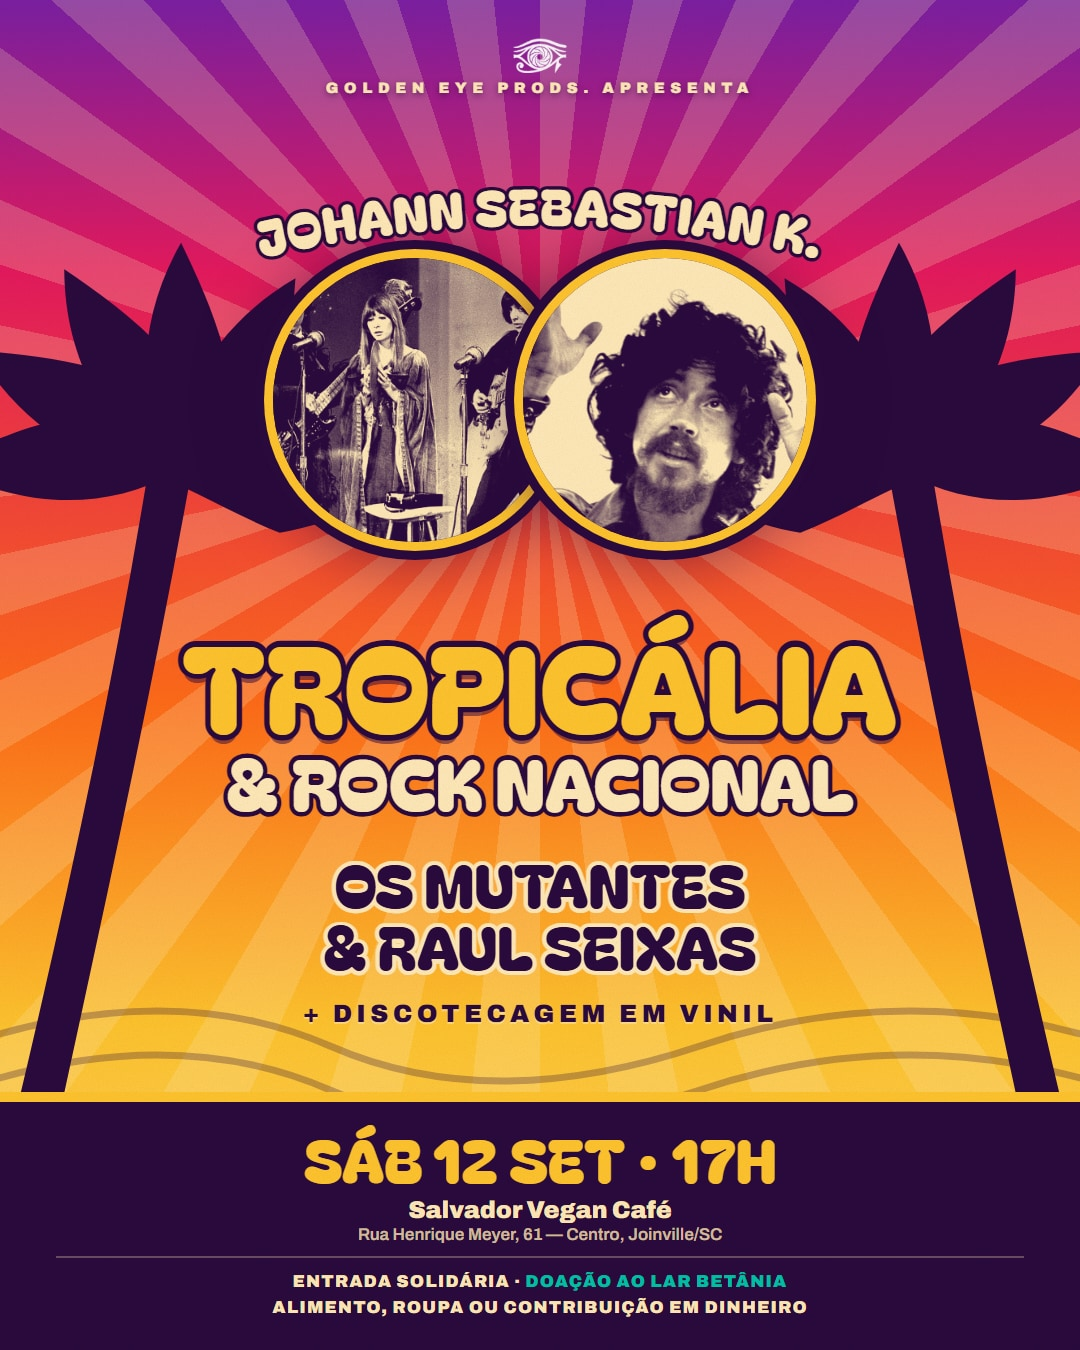
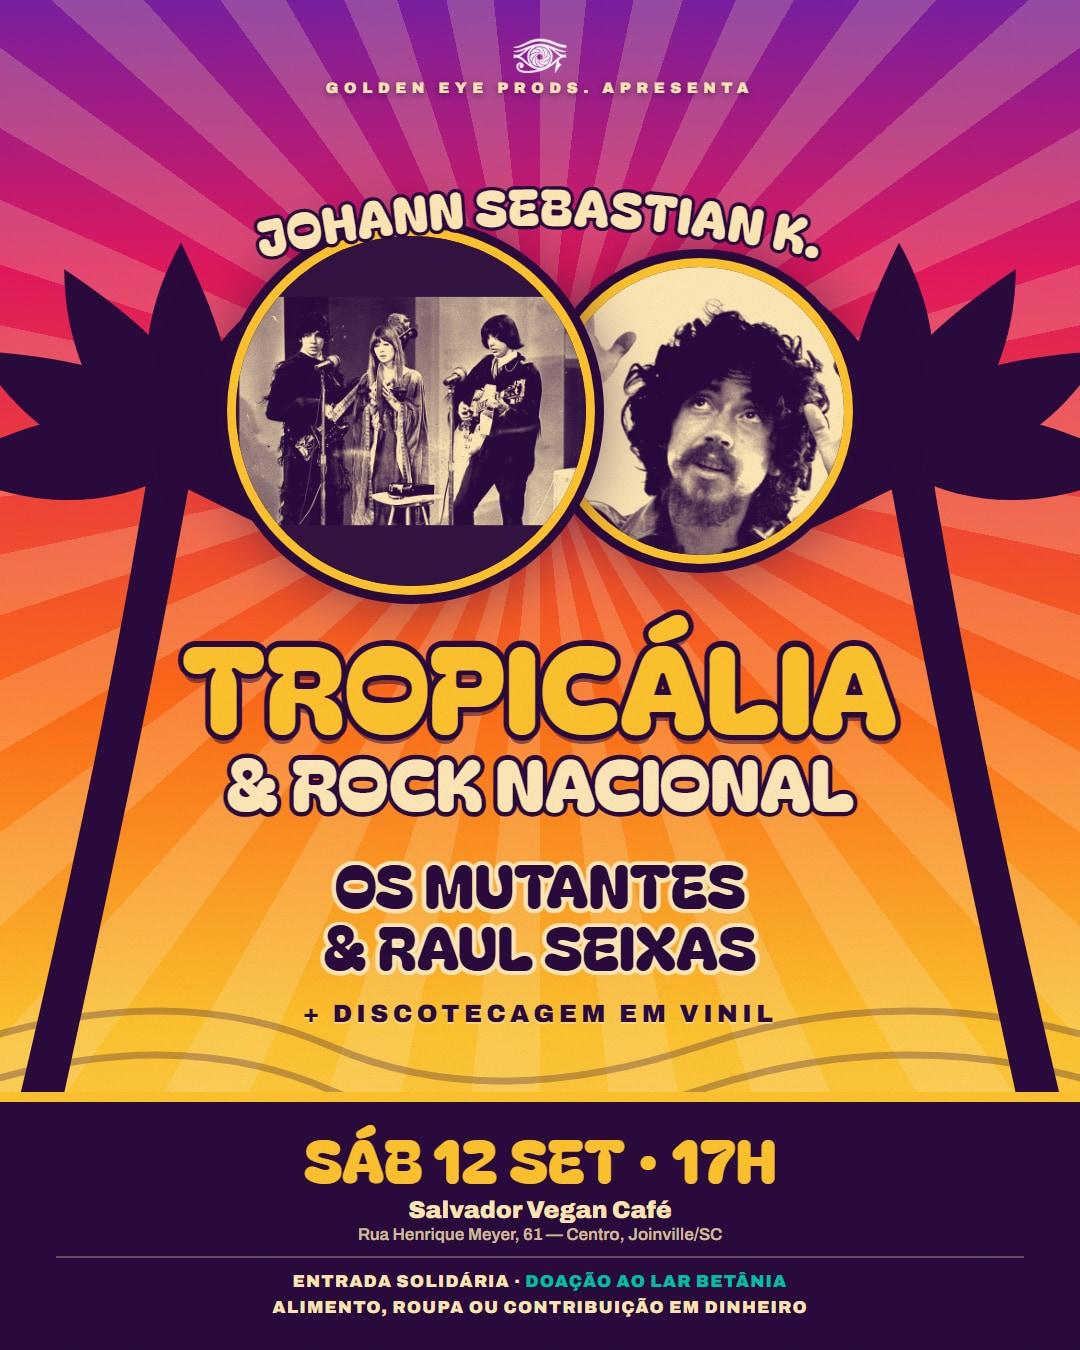
Amplia o medalhão dos Mutantes e mostra os três inteiros
O recorte quadrado descartava quem estava nas pontas: a foto é 3:2 e, ao
cortar um quadrado do meio, sobrava a Rita e pedaços dos outros dois.

O script de preparo ganhou dois modos de enquadrar. "cortar" recorta um
quadrado do centro e continua servindo para o retrato do Raul. "caber"
encaixa a foto inteira e completa as sobras com a cor de fundo — é o que
salva foto de grupo. Dentro do círculo as faixas de sobra caem fora da
área visível, então o efeito é só o de enxergar todo mundo.

O medalhão dos Mutantes também cresceu em relação ao do Raul: três pessoas
precisam de mais espaço que um rosto, e a diferença de tamanho ainda ajuda
a compor, evitando dois círculos idênticos lado a lado.

Changed region(s): [[0.1833, 0.1556, 0.7944, 0.4667]]

diff --git a/cartazes/cartaz.html b/cartazes/cartaz.html
@@ -84,12 +84,12 @@
      lado, levemente sobrepostos, dão a cada foto um recorte decente e
      ainda leem como uma peça só. */
   .miolo {
-    position: absolute; top: 258px; left: 50%; transform: translateX(-50%);
+    position: absolute; top: 236px; left: 50%; transform: translateX(-50%);
     z-index: 12; display: flex; align-items: center;
   }
   .medalhao {
     position: relative;
-    width: 284px; height: 284px; border-radius: 50%;
+    width: 288px; height: 288px; border-radius: 50%;
     overflow: hidden; background: var(--escuro);
     box-shadow:
       0 0 0 9px var(--amarelo),
@@ -97,8 +97,11 @@
       0 0 60px 14px rgba(42,10,61,.55);
   }
   .medalhao img { width: 100%; height: 100%; object-fit: cover; display: block; }
+  /* Os Mutantes são três: o medalhão deles precisa de mais espaço que o
+     retrato do Raul, senão os das pontas ficam espremidos. */
+  .medalhao.grupo { width: 350px; height: 350px; z-index: 3; }
   /* sobreposição: o da direita entra por cima e encosta no da esquerda */
-  .medalhao + .medalhao { margin-left: -34px; z-index: 2; }
+  .medalhao + .medalhao { margin-left: -30px; z-index: 2; }
 
   /* --- PALMEIRAS -------------------------------------------------------- */
   /* Enraizadas nos cantos de baixo: o tronco nasce fora do quadro e sobe
@@ -202,7 +205,7 @@
   </svg>
 
   <div class="miolo">
-    <div class="medalhao"><img src="mutantes.png" alt="Os Mutantes"></div>
+    <div class="medalhao grupo"><img src="mutantes.png" alt="Os Mutantes"></div>
     <div class="medalhao"><img src="raul.png" alt="Raul Seixas"></div>
   </div>
     </div>

diff --git a/cartazes/impresso-a4.html b/cartazes/impresso-a4.html
@@ -84,12 +84,12 @@
      lado, levemente sobrepostos, dão a cada foto um recorte decente e
      ainda leem como uma peça só. */
   .miolo {
-    position: absolute; top: 336px; left: 50%; transform: translateX(-50%);
+    position: absolute; top: 316px; left: 50%; transform: translateX(-50%);
     z-index: 12; display: flex; align-items: center;
   }
   .medalhao {
     position: relative;
-    width: 330px; height: 330px; border-radius: 50%;
+    width: 326px; height: 326px; border-radius: 50%;
     overflow: hidden; background: var(--escuro);
     box-shadow:
       0 0 0 9px var(--amarelo),
@@ -97,8 +97,11 @@
       0 0 60px 14px rgba(42,10,61,.55);
   }
   .medalhao img { width: 100%; height: 100%; object-fit: cover; display: block; }
+  /* Os Mutantes são três: o medalhão deles precisa de mais espaço que o
+     retrato do Raul, senão os das pontas ficam espremidos. */
+  .medalhao.grupo { width: 400px; height: 400px; z-index: 3; }
   /* sobreposição: o da direita entra por cima e encosta no da esquerda */
-  .medalhao + .medalhao { margin-left: -34px; z-index: 2; }
+  .medalhao + .medalhao { margin-left: -30px; z-index: 2; }
 
   /* --- PALMEIRAS -------------------------------------------------------- */
   /* Enraizadas nos cantos de baixo: o tronco nasce fora do quadro e sobe
@@ -202,7 +205,7 @@
   </svg>
 
   <div class="miolo">
-    <div class="medalhao"><img src="mutantes.png" alt="Os Mutantes"></div>
+    <div class="medalhao grupo"><img src="mutantes.png" alt="Os Mutantes"></div>
     <div class="medalhao"><img src="raul.png" alt="Raul Seixas"></div>
   </div>
     </div>

diff --git a/cartazes/story.html b/cartazes/story.html
@@ -84,12 +84,12 @@
      lado, levemente sobrepostos, dão a cada foto um recorte decente e
      ainda leem como uma peça só. */
   .miolo {
-    position: absolute; top: 396px; left: 50%; transform: translateX(-50%);
+    position: absolute; top: 380px; left: 50%; transform: translateX(-50%);
     z-index: 12; display: flex; align-items: center;
   }
   .medalhao {
     position: relative;
-    width: 316px; height: 316px; border-radius: 50%;
+    width: 312px; height: 312px; border-radius: 50%;
     overflow: hidden; background: var(--escuro);
     box-shadow:
       0 0 0 9px var(--amarelo),
@@ -97,8 +97,11 @@
       0 0 60px 14px rgba(42,10,61,.55);
   }
   .medalhao img { width: 100%; height: 100%; object-fit: cover; display: block; }
+  /* Os Mutantes são três: o medalhão deles precisa de mais espaço que o
+     retrato do Raul, senão os das pontas ficam espremidos. */
+  .medalhao.grupo { width: 382px; height: 382px; z-index: 3; }
   /* sobreposição: o da direita entra por cima e encosta no da esquerda */
-  .medalhao + .medalhao { margin-left: -34px; z-index: 2; }
+  .medalhao + .medalhao { margin-left: -30px; z-index: 2; }
 
   /* --- PALMEIRAS -------------------------------------------------------- */
   /* Enraizadas nos cantos de baixo: o tronco nasce fora do quadro e sobe
@@ -202,7 +205,7 @@
   </svg>
 
   <div class="miolo">
-    <div class="medalhao"><img src="mutantes.png" alt="Os Mutantes"></div>
+    <div class="medalhao grupo"><img src="mutantes.png" alt="Os Mutantes"></div>
     <div class="medalhao"><img src="raul.png" alt="Raul Seixas"></div>
   </div>
     </div>

diff --git a/scripts/preparar-miolo.py b/scripts/preparar-miolo.py
@@ -1,15 +1,21 @@
 # ============================================================================
 #  python scripts/preparar-miolo.py
 #
-#  Prepara as duas fotos do miolo do cartaz — Os Mutantes de um lado, Raul
-#  Seixas do outro — em duotone, na mesma paleta do cartaz.
+#  Prepara as duas fotos dos medalhões do cartaz — Os Mutantes de um lado,
+#  Raul Seixas do outro — em duotone, na mesma paleta do cartaz.
 #
 #  O duotone não é enfeite: sem ele são duas fotos de época diferentes,
 #  coladas lado a lado. Com ele, viram uma imagem só.
 #
+#  DOIS MODOS DE ENQUADRAR:
+#    'cortar' — recorta um quadrado do meio. Bom para retrato.
+#    'caber'  — encaixa a foto inteira e completa as sobras com a cor de
+#               fundo. É o que salva foto de grupo: numa foto 3:2, o
+#               recorte quadrado joga fora quem está nas pontas.
+#
 #  COLOQUE OS ORIGINAIS EM:
-#     _originais/capas/mutantes.jpg   (ou .png)
-#     _originais/capas/raul.jpg       (ou .png)
+#     _originais/capas/mutantes.png   (ou .jpg / .webp)
+#     _originais/capas/raul.jpg       (ou .png / .webp)
 # ============================================================================
 
 from PIL import Image, ImageOps, ImageEnhance
@@ -17,19 +23,24 @@ import os, sys
 
 SOMBRA = (42, 10, 61)      # roxo berinjela do cartaz
 LUZ = (255, 233, 184)      # creme do cartaz
+LADO = 760                 # tamanho final de cada medalhão
 
-# (nome de saída, nomes aceitos na entrada, recorte, foco)
+# (saída, nomes aceitos, recorte prévio, modo, zoom)
 PECAS = [
-    ('mutantes', ['mutantes.jpg', 'mutantes.png', 'mutantes.jpeg', 'mutantes.webp'],
-     (0.05, 0.00, 0.99, 0.96), 'centro'),
+    # Foto de grupo: precisa caber inteira, senão perde os das pontas.
+    # O zoom de 1.18 tira parte das faixas de sobra sem cortar ninguém.
+    ('mutantes', ['mutantes.png', 'mutantes.jpg', 'mutantes.jpeg', 'mutantes.webp'],
+     (0.03, 0.00, 1.00, 0.97), 'caber', 1.18),
+
+    # Retrato: recorte quadrado funciona e aproxima o rosto.
     ('raul', ['raul.jpg', 'raul.png', 'raul.jpeg', 'raul.webp'],
-     (0.10, 0.14, 0.94, 0.86), 'centro'),
+     (0.10, 0.14, 0.94, 0.86), 'cortar', 1.0),
 ]
 
 os.makedirs('cartazes', exist_ok=True)
 faltando = []
 
-for saida, nomes, (e, t, d, b), _ in PECAS:
+for saida, nomes, (e, t, d, b), modo, zoom in PECAS:
     origem = next(
         (os.path.join('_originais/capas', n)
          for n in nomes if os.path.exists(os.path.join('_originais/capas', n))),
@@ -43,12 +54,20 @@ for saida, nomes, (e, t, d, b), _ in PECAS:
     L, A = im.size
     im = im.crop((int(L * e), int(A * t), int(L * d), int(A * b)))
 
-    # quadrado centrado: as duas metades do círculo precisam da mesma proporção
-    L, A = im.size
-    lado = min(L, A)
-    im = im.crop(((L - lado) // 2, (A - lado) // 2,
-                  (L + lado) // 2, (A + lado) // 2))
-    im = im.resize((700, 700), Image.LANCZOS)
+    if modo == 'cortar':
+        L, A = im.size
+        lado = min(L, A)
+        im = im.crop(((L - lado) // 2, (A - lado) // 2,
+                      (L + lado) // 2, (A + lado) // 2))
+        im = im.resize((LADO, LADO), Image.LANCZOS)
+    else:
+        # cabe inteira: redimensiona pela maior dimensão e centraliza
+        alvo = int(LADO * zoom)
+        cabe = im.copy()
+        cabe.thumbnail((alvo, alvo), Image.LANCZOS)
+        tela = Image.new('RGB', (LADO, LADO), (30, 30, 30))
+        tela.paste(cabe, ((LADO - cabe.width) // 2, (LADO - cabe.height) // 2))
+        im = tela
 
     g = ImageOps.grayscale(im)
     g = ImageEnhance.Contrast(g).enhance(1.5)
@@ -57,7 +76,7 @@ for saida, nomes, (e, t, d, b), _ in PECAS:
 
     destino = f'cartazes/{saida}.png'
     duo.save(destino, optimize=True)
-    print(f'{destino}  {os.path.getsize(destino)//1024} KB')
+    print(f'{destino}  {duo.size[0]}x{duo.size[1]}  {os.path.getsize(destino)//1024} KB  ({modo})')
 
 if faltando:
     print('\nFaltam os originais:')
